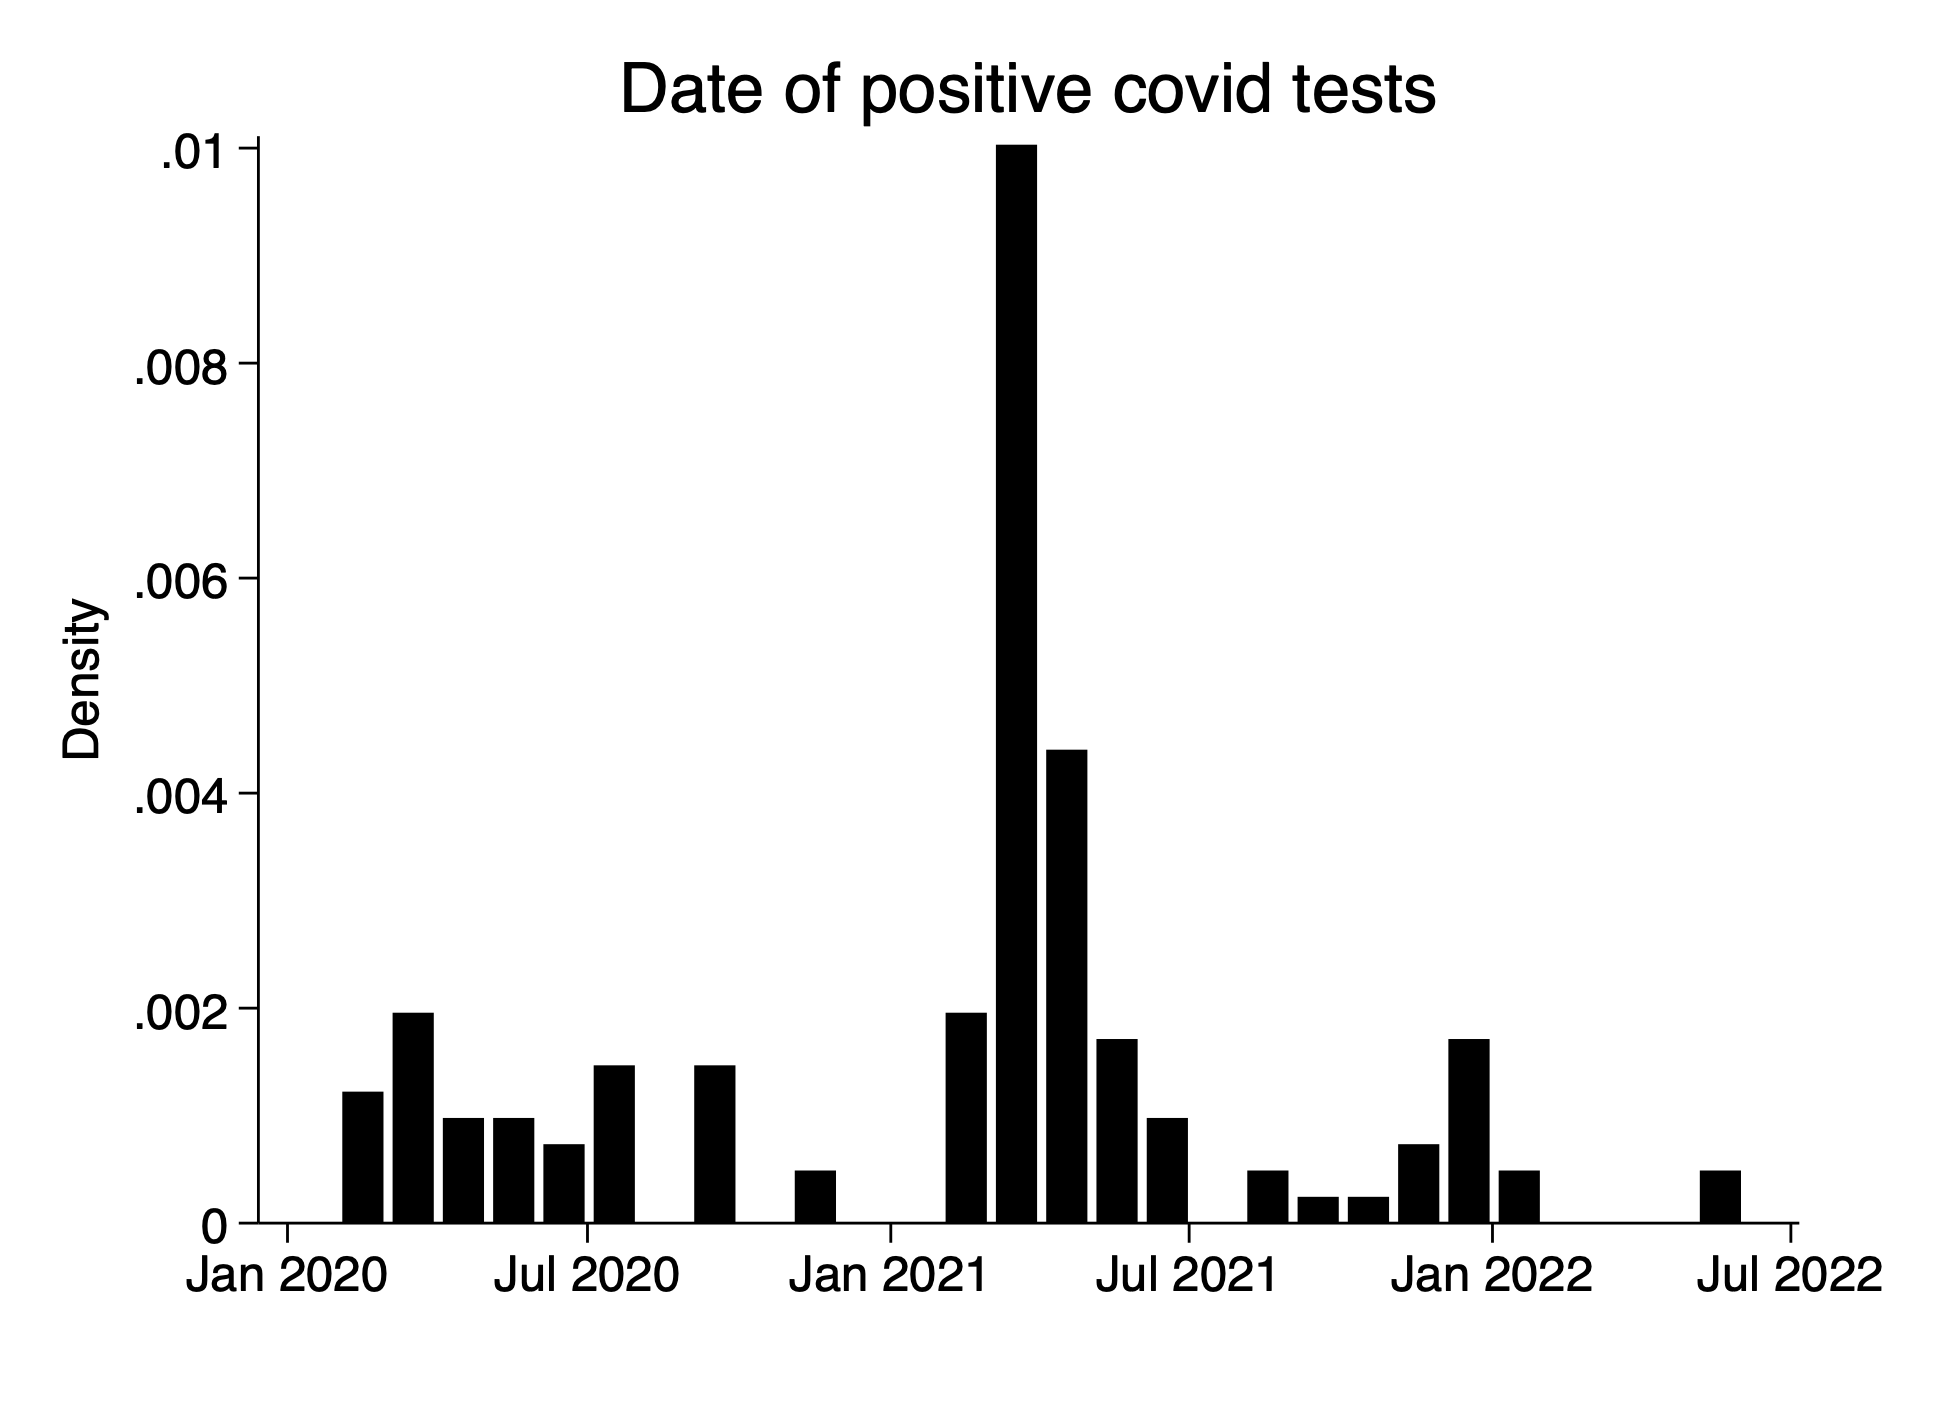
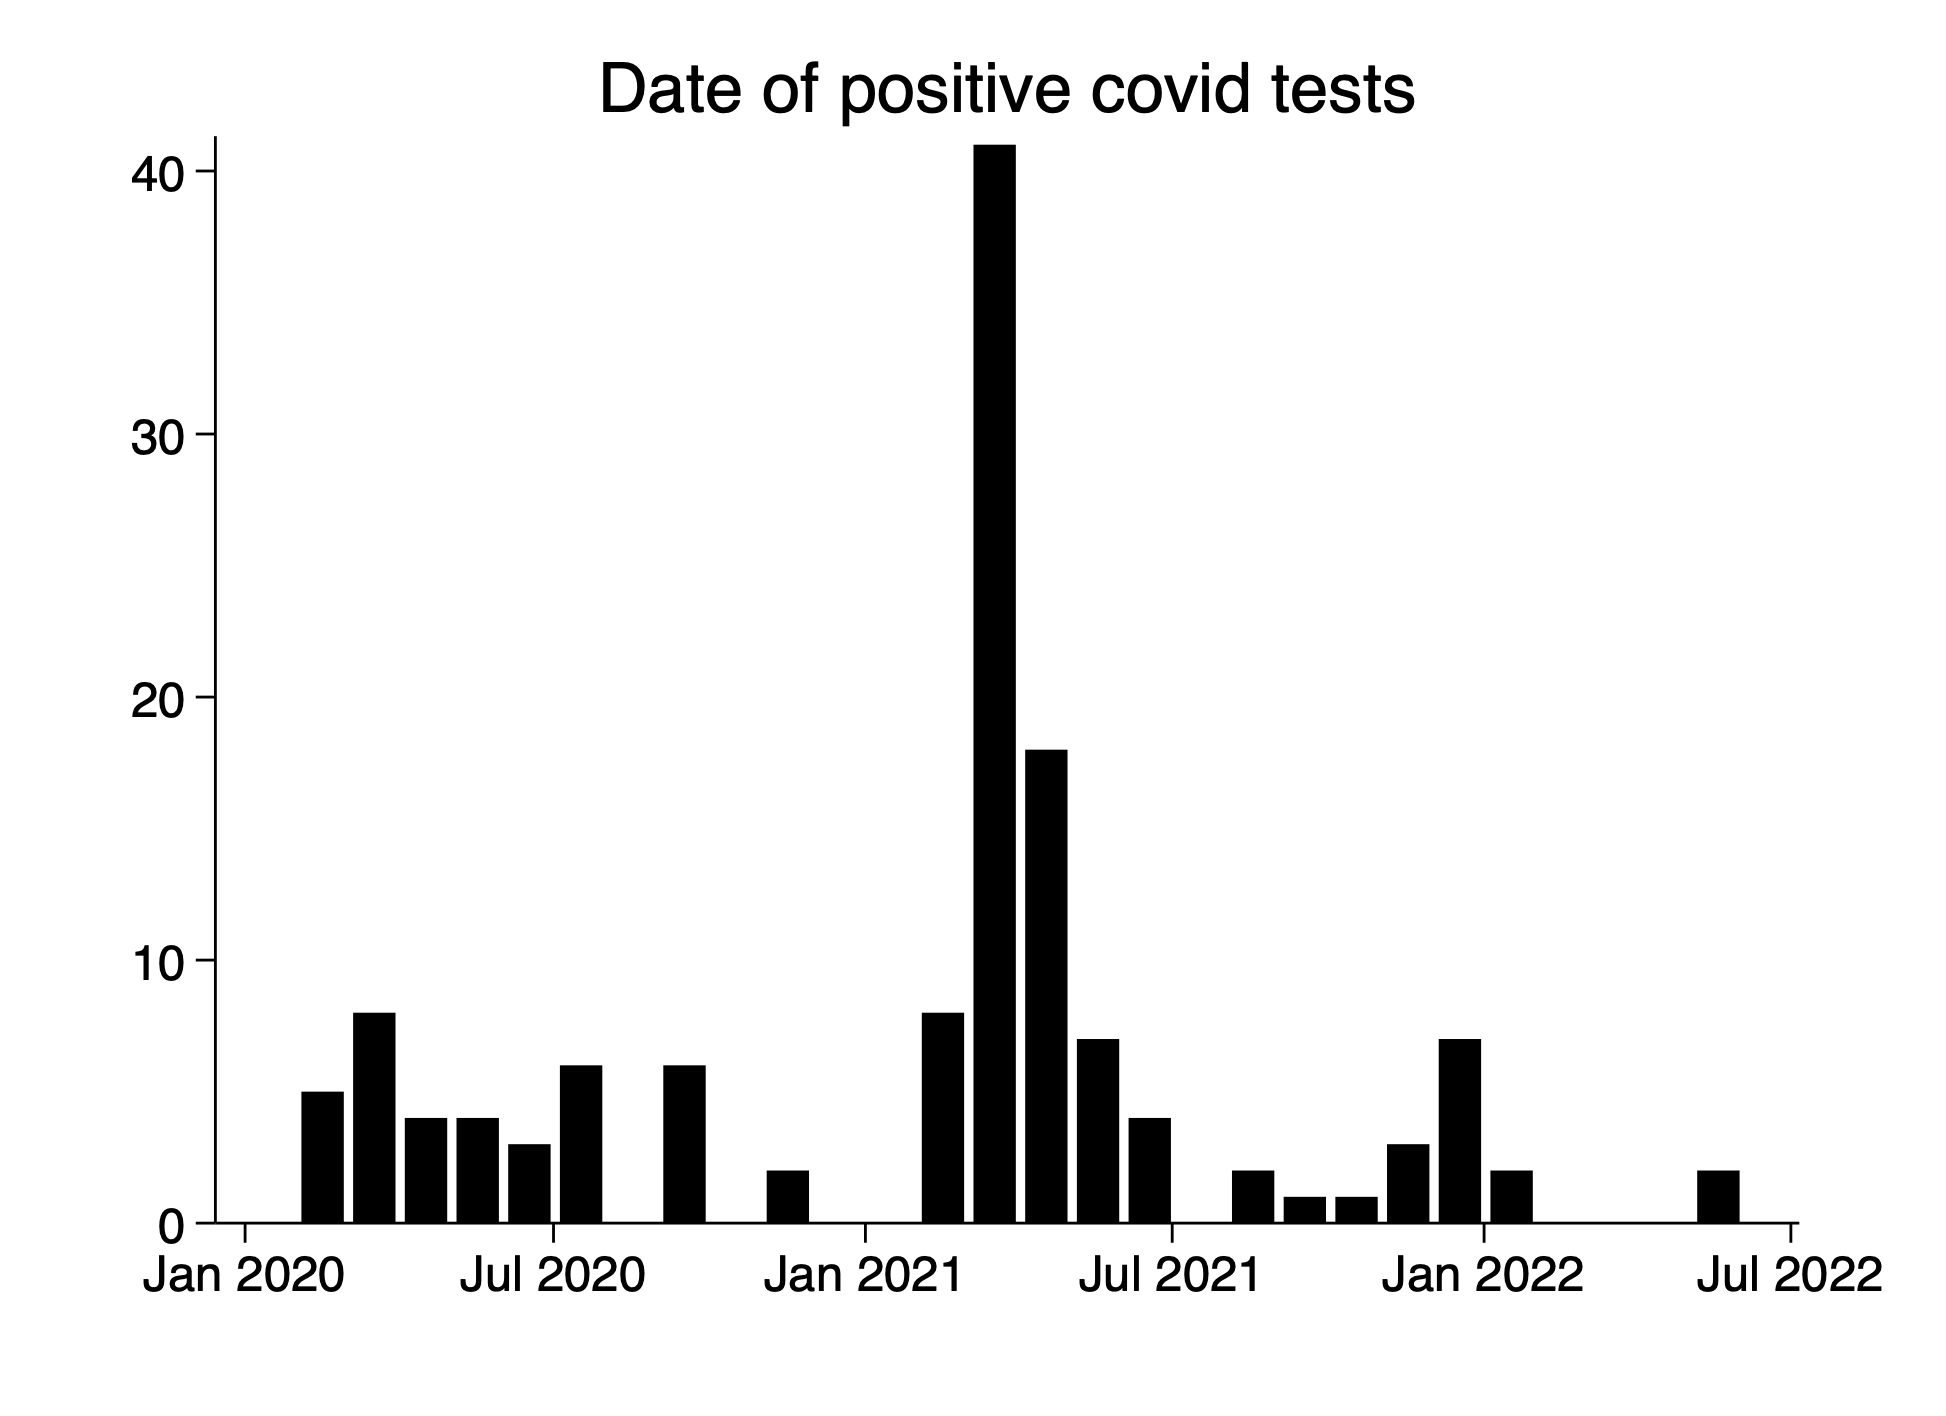
Prevalence

diff --git a/output/README.md b/output/README.md
@@ -1,3 +1,4 @@
 # Long Covid
 
+![Covid prevalence in consented sample](covid-prevalence.png)
 ![Covid positivity by time](covid-positive.png)
